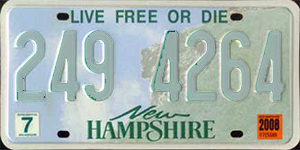
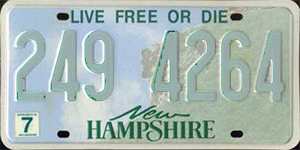
Fix ios bug

Changed region(s): [[0.84, 0.7467, 0.96, 0.9333]]

diff --git a/src/components/content/xgeo/us/plate/Plate.tsx b/src/components/content/xgeo/us/plate/Plate.tsx
@@ -41,6 +41,7 @@ const Plate = (props: PlateProps): React.ReactElement => {
     }
 
     const choosePlate = (tuple: PLATE_TUPLE, state: PLATE_STATE): string => {
+        console.log("Choosing plate:", tuple, state);
         if (tuple !== plate) {
             setPlate(tuple);
             preloadPlate(tuple);
@@ -93,13 +94,13 @@ const Plate = (props: PlateProps): React.ReactElement => {
             <svg viewBox='0 0 150 75'>
                 <defs>
                     <filter id={getFilterId("combinedFilter")} x="-50%" y="-50%" width="200%" height="200%">
-                        <feFlood result="rs"
+                        {(plate && plate[3][0] !== 1000) ? <><feFlood result="rs"
                             x={`${plate ? (plate[3].length >= 6 ? (index2 % 2 === 0 ? plate[3][4] : plate[3][0]) : plate[3][0]) : 0}%`}
                             y={`${plate ? (plate[3].length >= 6 ? (index2 % 2 === 0 ? plate[3][5] : plate[3][1]) : plate[3][1]) : 0}%`}
                             width={`${plate ? (plate[3].length >= 6 ? (index2 % 2 === 0 ? plate[3][2] : plate[3][2]) : plate[3][2]) : 0}%`}
                             height={`${plate ? (plate[3].length >= 6 ? (index2 % 2 === 0 ? plate[3][3] : plate[3][3]) : plate[3][3]) : 0}%`}
                             floodColor={(props.rsc && props.rsc !== 'clear') ? props.rsc : 'red'}
-                            floodOpacity={(props.rsc === 'clear' || props.rsc === undefined) ? '0' : "0.4"}
+                            floodOpacity={(props.rsc === 'clear' || props.rsc === undefined) ? '0' : "0.3"}
                         />
                         <feBlend in="rs" in2="SourceGraphic" mode="normal" result="blendedRs1" />
                         {plate && plate[3].length === 8 && (
@@ -110,17 +111,17 @@ const Plate = (props: PlateProps): React.ReactElement => {
                                     width={`${plate ? plate[3][2] : 0}%`}
                                     height={`${plate ? plate[3][3] : 0}%`}
                                     floodColor={(props.rsc2 && props.rsc2 !== 'clear') ? props.rsc2 : 'white'}
-                                    floodOpacity={(props.rsc2 === 'clear' || props.rsc2 === undefined) ? '0' : "0.4"}
+                                    floodOpacity={(props.rsc2 === 'clear' || props.rsc2 === undefined) ? '0' : "0.3"}
                                 />
                                 <feBlend in="rs2" in2="blendedRs1" mode="normal" result="blendedRs2" />
                             </>
-                        )}
+                        )}</> : <></>}
                         <feColorMatrix type="matrix"
                             values={`${(0.393 + 0.607 * (1 - sepia))} ${(0.769 - 0.769 * (1 - sepia))} ${(0.189 - 0.189 * (1 - sepia))} 0 0
                                     ${(0.349 - 0.349 * (1 - sepia))} ${(0.686 + 0.314 * (1 - sepia))} ${(0.168 - 0.168 * (1 - sepia))} 0 0
                                     ${(0.272 - 0.272 * (1 - sepia))} ${(0.534 - 0.534 * (1 - sepia))} ${(0.131 + 0.869 * (1 - sepia))} 0 0
                                     0 0 0 1 0`}
-                            in={plate && plate[3].length === 8 ? "blendedRs2" : "blendedRs1"}
+                            in={(plate && plate[3][0] !== 1000) ? (plate && plate[3].length === 8 ? "blendedRs2" : "blendedRs1") : "SourceGraphic"}
                             result="sepia" />
                         <feFlood result="hc"
                             x={'20%'}

diff --git a/src/components/standalone/Sitemap.tsx b/src/components/standalone/Sitemap.tsx
@@ -9,7 +9,7 @@ const Sitemap = () => {
         <ul>
           <li><Link to={Path.HOME}>Home</Link></li>
           <li><Link to={Path.ABOUT}>About Me</Link></li>
-          <li><Link to={Path.PROJECTS}>Resume</Link></li>
+          <li><Link to={Path.PROJECTS}>Portfolio</Link></li>
           <li><Link to={Path.TRAVEL_LOG}>Travel Log</Link></li>
           <li><Link to={Path.GET_IN_THE_SKY}>Get In The Sky</Link></li>
           <li><Link to={Path.EIGHTYEIGHT}>88x31</Link></li>
@@ -19,7 +19,7 @@ const Sitemap = () => {
           <li><Link to={Path.VISITORS}>Visitors</Link></li>
           <li><Link to={Path.SUPPORT}>Support</Link></li>
           <li>
-            <Link to={Path.XGEO}>XGeo Main</Link>
+            <Link to={Path.XGEO}>xgeo</Link>
             <ul>
               <li>
                 North America
@@ -46,7 +46,6 @@ const Sitemap = () => {
               <li>
                 Europe
                 <ul>
-                  <li><Link to={Path.XGEO_EU}>Europe Main</Link></li>
                   <li><Link to={Path.XGEO_EU_BOLLARDS}>Bollards</Link></li>
                   <li><Link to={Path.XGEO_EU_CHEVRONS}>Chevrons</Link></li>
                   <li><Link to={Path.XGEO_EU_DOMAINS}>Domains</Link></li>

diff --git a/src/components/dso/InTheSky.tsx b/src/components/dso/InTheSky.tsx
@@ -114,6 +114,8 @@ const InTheSky: React.FC<InTheSkyProps> = ({
         if (stringLength > 17) {
             return `${Math.floor(12 * (width/130))}px DOS, basiic, monospace`;
         } else if (stringLength > 14) {
+            return `${Math.floor(15 * (width/130))}px DOS, basiic, monospace`;
+        } else if (stringLength > 12) {
             return `${Math.floor(16 * (width/130))}px DOS, basiic, monospace`;
         } else {
             return `${Math.floor(18 * (width/130))}px DOS, basiic, monospace`;
